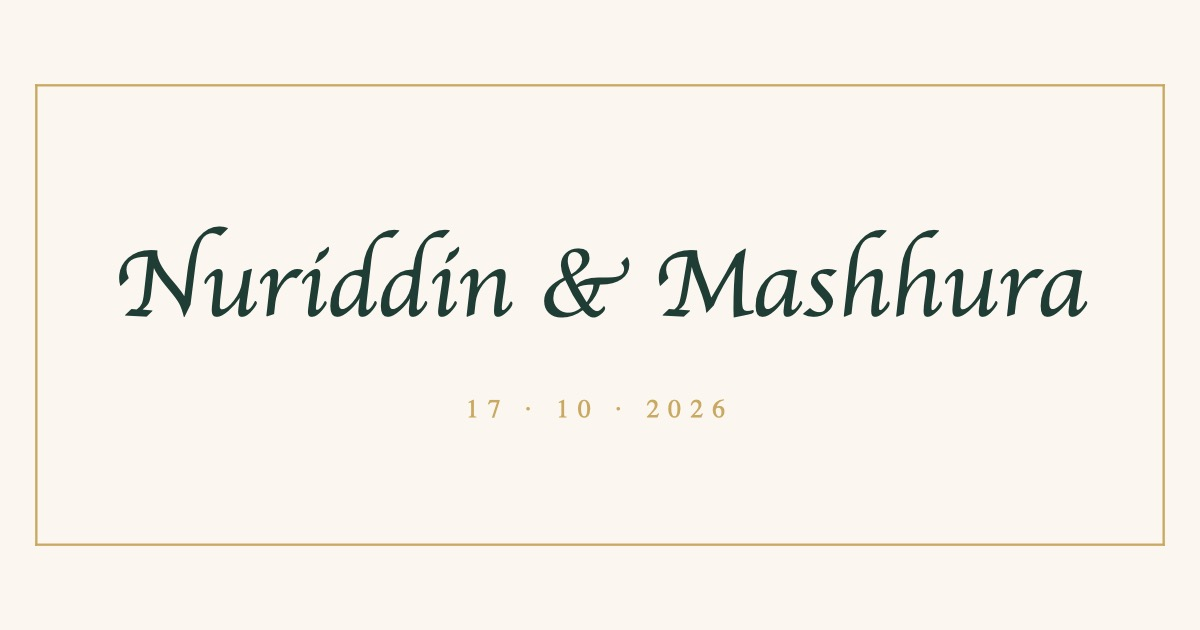
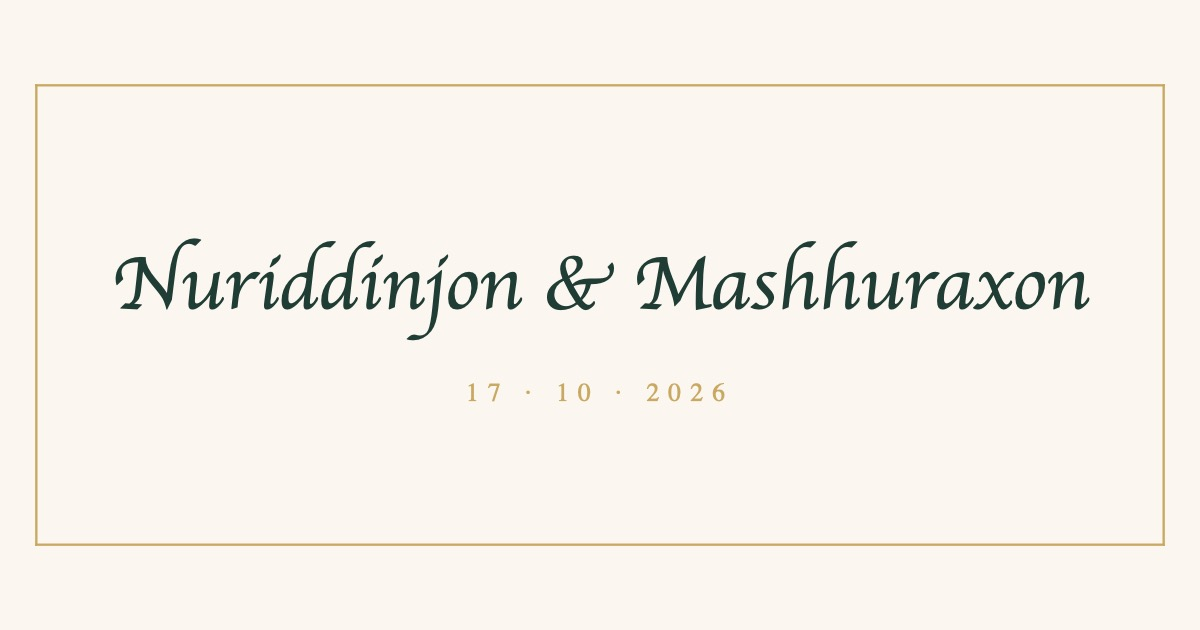
Kelin-kuyov ismlarini Nuriddinjon va Mashhuraxon ga o'zgartirish
Hero bo'limidagi ism shriftini biroz kichraytirdi va break-words
qo'shdi, uzunroq ismlar kichik ekranlarda kesilib qolmasligi uchun.

diff --git a/src/config.ts b/src/config.ts
@@ -1,8 +1,8 @@
 // Barcha to'y ma'lumotlari shu yerda. O'zgartirish kerak bo'lsa faqat shu faylni tahrirlang.
 
 export const weddingConfig = {
-  groom: 'Nuriddin',
-  bride: 'Mashhura',
+  groom: 'Nuriddinjon',
+  bride: 'Mashhuraxon',
 
   // ISO formatda sana, Countdown va kalendar shu yerdan hisoblaydi
   date: '2026-10-17T18:00:00+05:00',
@@ -14,7 +14,7 @@ export const weddingConfig = {
     groomFamilyName: 'Fayziyevlar',
     brideFamilyName: 'Muhammadovlar',
     invitationText:
-      "Fayziyevlar va Muhammadovlar oilalari farzandlari Nuriddin va Mashhuraning nikoh to'yiga sizni va oilangizni chin dildan taklif etadi.",
+      "Fayziyevlar va Muhammadovlar oilalari farzandlari Nuriddinjon va Mashhuraxonning nikoh to'yiga sizni va oilangizni chin dildan taklif etadi.",
   },
 
   venue: {
@@ -57,8 +57,8 @@ export const weddingConfig = {
   },
 
   seo: {
-    title: 'Nuriddin & Mashhura — Nikoh taklifnomasi',
-    description: "17-oktabr, 2026. Nuriddin va Mashhuraning to'yiga sizni taklif qilamiz.",
+    title: 'Nuriddinjon & Mashhuraxon — Nikoh taklifnomasi',
+    description: "17-oktabr, 2026. Nuriddinjon va Mashhuraxonning to'yiga sizni taklif qilamiz.",
     ogImage: '/og-image.jpg',
     url: 'https://nuriddin-mashhura-toy.vercel.app',
   },

diff --git a/index.html b/index.html
@@ -5,12 +5,12 @@
     <link rel="icon" type="image/svg+xml" href="/favicon.svg" />
     <meta name="viewport" content="width=device-width, initial-scale=1, viewport-fit=cover" />
     <meta name="theme-color" content="#FBF7F0" />
-    <title>Nuriddin & Mashhura — Nikoh taklifnomasi</title>
-    <meta name="description" content="17-oktabr, 2026. Nuriddin va Mashhuraning to'yiga sizni taklif qilamiz." />
+    <title>Nuriddinjon & Mashhuraxon — Nikoh taklifnomasi</title>
+    <meta name="description" content="17-oktabr, 2026. Nuriddinjon va Mashhuraxonning to'yiga sizni taklif qilamiz." />
 
     <meta property="og:type" content="website" />
-    <meta property="og:title" content="Nuriddin & Mashhura — Nikoh taklifnomasi" />
-    <meta property="og:description" content="17-oktabr, 2026. Nuriddin va Mashhuraning to'yiga sizni taklif qilamiz." />
+    <meta property="og:title" content="Nuriddinjon & Mashhuraxon — Nikoh taklifnomasi" />
+    <meta property="og:description" content="17-oktabr, 2026. Nuriddinjon va Mashhuraxonning to'yiga sizni taklif qilamiz." />
     <meta property="og:image" content="/og-image.jpg" />
     <meta name="twitter:card" content="summary_large_image" />
 

diff --git a/src/components/Hero.tsx b/src/components/Hero.tsx
@@ -120,7 +120,7 @@ export function Hero() {
         Nikoh to'yi
       </motion.p>
 
-      <h1 className="font-script text-6xl leading-tight text-[var(--color-emerald)] sm:text-8xl md:text-9xl">
+      <h1 className="font-script text-5xl leading-tight text-[var(--color-emerald)] break-words sm:text-7xl md:text-8xl">
         <AnimatedName text={weddingConfig.groom} delayOffset={0} />
       </h1>
 
@@ -133,7 +133,7 @@ export function Hero() {
         &amp;
       </motion.div>
 
-      <h1 className="font-script text-6xl leading-tight text-[var(--color-emerald)] sm:text-8xl md:text-9xl">
+      <h1 className="font-script text-5xl leading-tight text-[var(--color-emerald)] break-words sm:text-7xl md:text-8xl">
         <AnimatedName text={weddingConfig.bride} delayOffset={weddingConfig.groom.length + 4} />
       </h1>
 

diff --git a/README.md b/README.md
@@ -1,4 +1,4 @@
-# Nuriddin & Mashhura — Nikoh taklifnomasi
+# Nuriddinjon & Mashhuraxon — Nikoh taklifnomasi
 
 Onlayn to'y taklifnomasi sayti. Vite + React + TypeScript + Tailwind CSS, Framer Motion, GSAP ScrollTrigger va Lenis silliq scroll bilan qurilgan.
 
